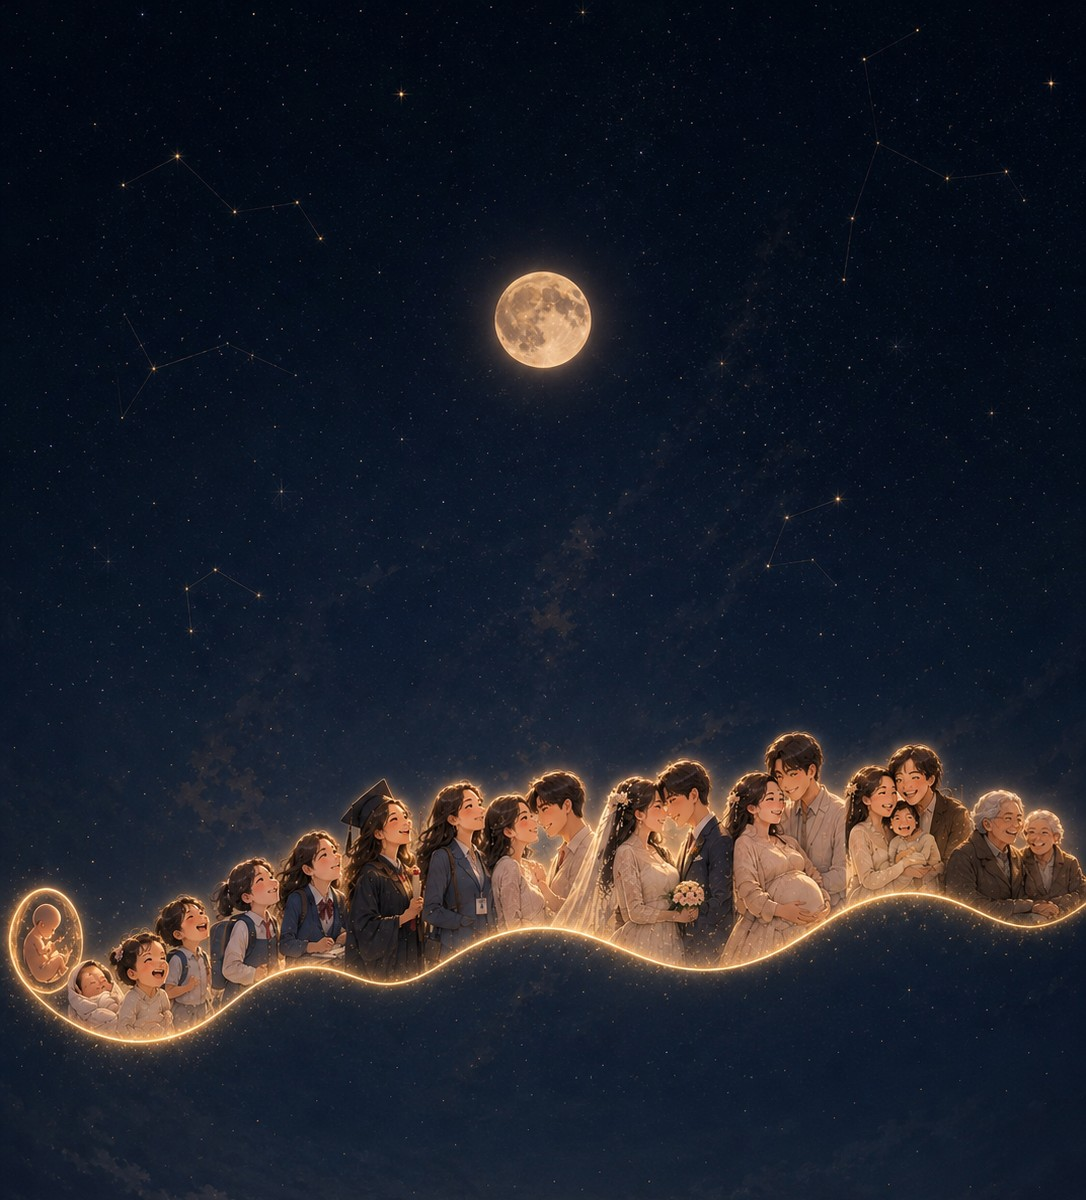
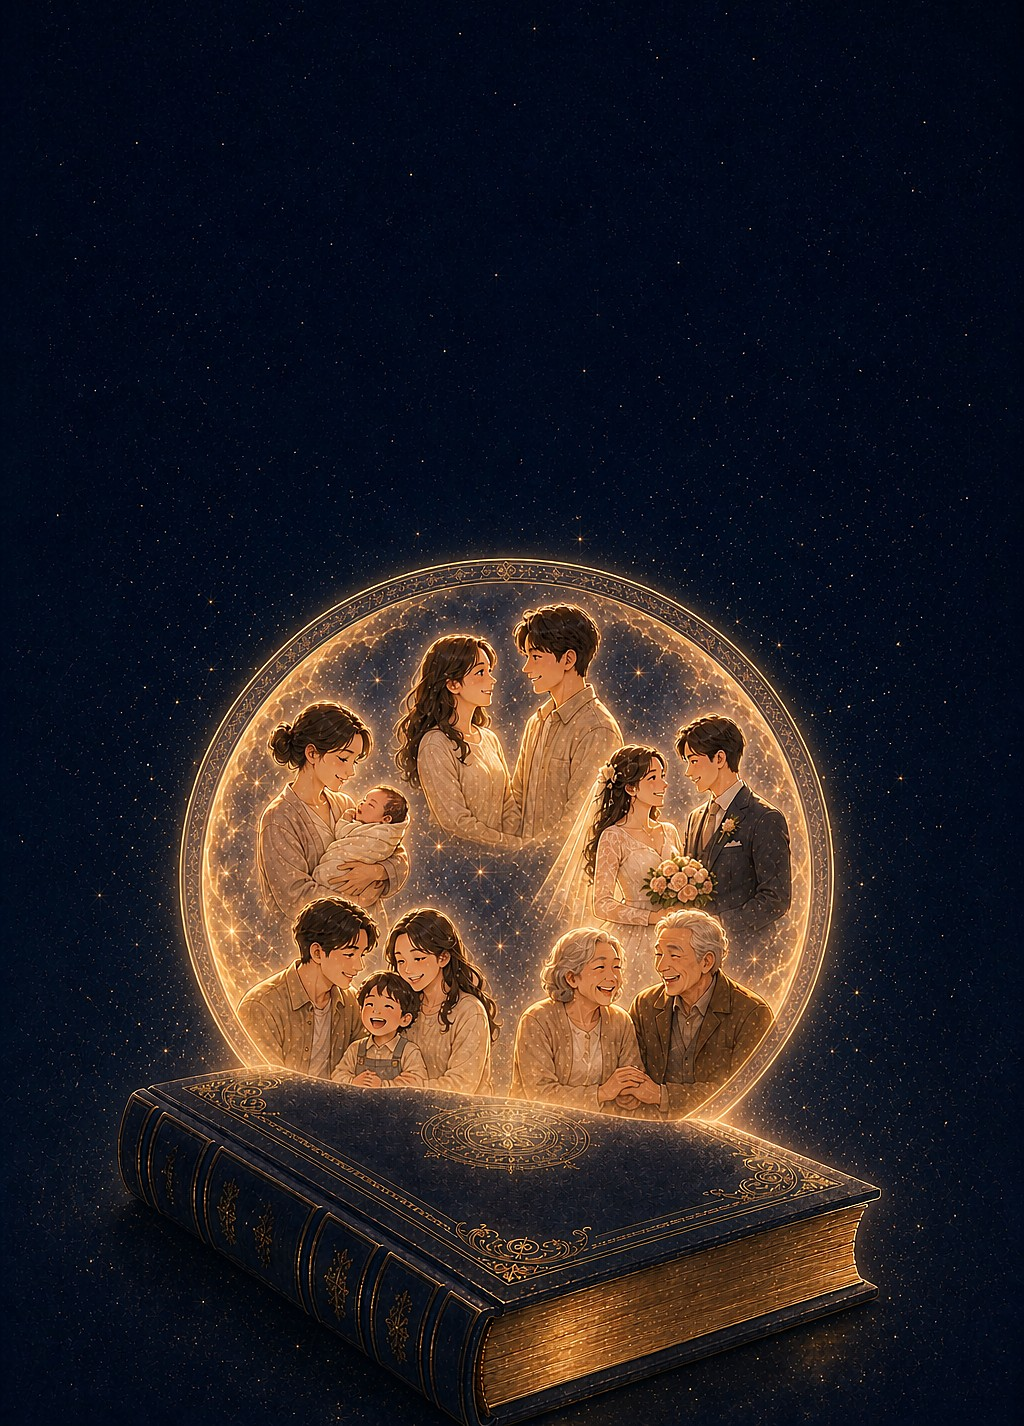
fix(v22): 세부 탭 알약 좌우 16px 여백·26px 높이·광학 중앙 정렬, 글자수/쪽수 마케팅 카피 전면 삭제, 하단 신뢰 알약 3개 제거, 푸터 고지문 2줄 정리, 인생사주 표지 아트(남색 금장 책+금빛 원형 인물 프레임) 교체, 3카드 문구 한 줄 정렬

diff --git a/index.html b/index.html
@@ -215,20 +215,20 @@
 
       <!-- 01 첫 화면 : 표지 + 제목 + 바로 신청 -->
       <div class="lr-hero">
-        <img class="lr-art" src="./assets/life-report-hero.jpg" alt="천령당 인생사주 리포트 — 아기에서 노년까지 한 사람의 평생을 걷는 사람들" width="1086" height="1200">
+        <img class="lr-art" src="./assets/life-report-hero.jpg" alt="천령당 인생사주 리포트 — 남색 금장 책과 금빛 원 안에 담긴 아기·청년 부부·가족·노부부" width="1024" height="1426">
         <div class="lr-veil" aria-hidden="true"></div>
         <div class="lr-hero-in">
           <div class="lr-hero-top">
             <div class="lr-eyebrow">天靈堂 · PREMIUM LIFE REPORT</div>
             <h2>인생사주<br><em>리포트</em></h2>
-            <p class="lr-tag">타고난 기질부터 인생의 전환점, 재물·직업·사랑·가족·노후까지</p>
+            <p class="lr-tag">타고난 기질부터 인생의 전환점,<br>재물·직업·사랑·가족·노후까지</p>
           </div>
           <div class="lr-hero-bot">
           </div>
         </div>
       </div>
       <div class="lr-buy">
-        <div class="lr-price"><b>69,900원</b><span>1부 · 책자형 PDF 104쪽</span></div>
+        <div class="lr-price"><b>69,900원</b><span>1부 · 프리미엄 소장본 PDF</span></div>
         <button type="button" class="btn btn-gold btn-block" data-life-cta>인생사주 리포트 신청하기</button>
         <p class="lr-micro">원국 검수 후 영업일 2~3일 · 결제는 검수 완료 후 안내</p>
       </div>
@@ -239,15 +239,15 @@
         <p class="lr-p">사주는 미래를 정해둔 예언이 아닙니다. 태어난 계절과 여덟 글자에는 그 사람이 <b>어떤 조건에서 힘을 내고, 어떤 상황에서 먼저 지치는지</b>가 적혀 있습니다.</p>
         <p class="lr-p">인생사주 리포트는 그 기록 위에 <b>평생의 큰 흐름</b>과 <b>앞으로 10년의 상세한 변화</b>를 얹어 한 사람의 인생 전체를 엮은 프리미엄 리포트입니다. 단순히 ‘올해의 운세’를 알려주는 것이 아니라, 타고난 기질에서 시작해 인생의 전환점, 재물과 직업, 사랑과 가족, 그리고 노후의 자리까지 한 줄로 이어 읽습니다.</p>
         <div class="lr-cards">
-          <div><b>타고난 기질</b><span>일주와 오행으로 읽는 본바탕</span></div>
-          <div><b>인생의 전환점</b><span>판이 바뀌는 10년과 그 해</span></div>
-          <div><b>평생의 큰 흐름</b><span>청년·중년·노후를 한눈에</span></div>
+          <div><b>타고난 기질</b><span>일주와 오행의 본바탕</span></div>
+          <div><b>인생의 전환점</b><span>판이 바뀌는 전환점</span></div>
+          <div><b>평생의 큰 흐름</b><span>청년·중년·노후의 흐름</span></div>
         </div>
       </section>
 
       <!-- 03 리포트 구성 -->
       <section class="lr-sec">
-        <div class="lr-head"><span class="no">02</span><div><h3>리포트 구성</h3><p>여덟 개의 장, 104쪽</p></div></div>
+        <div class="lr-head"><span class="no">02</span><div><h3>리포트 구성</h3><p>여덟 개의 장으로 엮은 한 권</p></div></div>
         <div class="lr-toc">
           <div><b>01</b><div><strong>타고난 사주</strong><span>원국표·오행·십성·십이운성·신살</span></div></div>
           <div><b>02</b><div><strong>성격과 내면</strong><span>겉으로 보이는 나와 가까운 사람이 아는 나</span></div></div>
@@ -269,7 +269,7 @@
           <figure><img src="./assets/preview/life-daeun.jpg" alt="인생사주 리포트 평생 대운 페이지 미리보기" width="620" height="877" loading="lazy"><figcaption><b>평생 대운</b> 10년마다의 판</figcaption></figure>
           <figure><img src="./assets/preview/life-months.jpg" alt="인생사주 리포트 12개월 달력 페이지 미리보기" width="620" height="877" loading="lazy"><figcaption><b>12개월</b> 달마다의 흐름</figcaption></figure>
         </div>
-        <p class="lr-note">샘플 원국(김서연)으로 만든 실제 페이지입니다. 신청하시면 같은 구성으로 104쪽이 만들어집니다.</p>
+        <p class="lr-note">샘플 원국(김서연)으로 만든 실제 페이지입니다.<br>신청하시면 같은 구성의 프리미엄 리포트로 제작됩니다.</p>
       </section>
 
       <!-- 05 구매 안내 + 신청 -->
@@ -277,13 +277,13 @@
         <div class="lr-head"><span class="no">04</span><div><h3>구매 안내</h3><p>가격 · 제공 방식 · 제작 시간</p></div></div>
         <table class="tbl lr-tbl">
           <tr><th>가격</th><td><b>69,900원</b> · 1부</td></tr>
-          <tr><th>제공 방식</th><td>책자형 PDF <b>104쪽</b> · 신청 시 입력한 이메일로 발송</td></tr>
+          <tr><th>제공 방식</th><td>책자형 PDF 소장본 · 신청 시 입력한 이메일로 발송</td></tr>
           <tr><th>제작 시간</th><td>원국 검수 후 <b>영업일 2~3일</b></td></tr>
           <tr><th>결제</th><td>검수 완료 후 안내드립니다. 검수 전에는 결제가 이루어지지 않습니다.</td></tr>
           <tr><th>개인정보</th><td>이름·생년월일·출생지는 리포트 제작과 발송에만 사용합니다. 신청 내역은 이 기기에만 저장되고 외부로 전송되지 않습니다.</td></tr>
           <tr><th>환불 기준</th><td>제작 착수 전에는 전액 환불, 착수 후에는 진행 단계에 따라 부분 환불됩니다. 완성본을 받으신 뒤에는 디지털 콘텐츠 특성상 환불이 어렵습니다.</td></tr>
         </table>
-        <p class="lr-note">사주명리 상징을 생활의 언어로 옮긴 참고 해석입니다. 의학적 진단·법률·투자 판단을 대신하지 않습니다.</p>
+        <p class="lr-note">사주명리 상징을 생활의 언어로 옮긴 참고 해석입니다.<br>의학적 진단·법률·투자 판단을 대신하지 않습니다.</p>
 
         <div class="panel lr-form" id="lifeFormPanel">
         <div class="steps" id="pdfSteps">
@@ -420,11 +420,6 @@
       <div class="brand-note">
         <span class="no">天靈堂</span>
         <p>여덟 글자에 새겨진 하늘의 뜻을,<br>한 사람의 언어로 옮깁니다.</p>
-        <div class="brand-tags">
-          <span>사주명리 기반 참고 해석</span>
-          <span>입력 정보는 이 기기에만</span>
-          <span>원국 검수 후 전달</span>
-        </div>
       </div>
     </div>
   </section>
@@ -433,7 +428,7 @@
 <footer class="ft">
   <div class="wrap">
     <div class="fb"><span class="seal">天</span><b>천령당 天靈堂</b></div>
-    <div>사주명리 기반의 참고 해석입니다. 의학적 진단·법률·투자 판단을 대신하지 않습니다.</div>
+    <div class="ft-disc">사주명리 기반의 참고 해석입니다.<br>의학적 진단·법률·투자 판단을 대신하지 않습니다.</div>
     <div>문의 <a href="mailto:with-hj@users.noreply.github.com">with-hj@users.noreply.github.com</a></div>
     <button type="button" class="adm-link" data-admin-open>관리자 검수함</button>
     <div style="margin-top:10px;font-size:11px;color:#6a7383">© 2026 천령당 · All rights reserved.</div>

diff --git a/styles.css b/styles.css
@@ -274,17 +274,18 @@ select:focus,input:focus,textarea:focus{outline:none;border-color:var(--gold);bo
 .v8-bcopy p{margin:4px 0 0;font-family:var(--serif);font-size:13px;line-height:1.6;color:#D6C9AF;
   text-shadow:0 1px 6px rgba(0,0,0,.7)}
 
-/* 세부 탭 : 금빛 알약 — 가운데 정렬 · 작고 단정하게 · 글자와 점 모두 정중앙 */
-.v8-tabs,.subtabs{display:flex;flex-wrap:wrap;justify-content:center;align-items:center;gap:6px;padding:11px 13px 0;overflow:visible}
+/* 세부 탭 : 금빛 알약 — 카드 좌우 여백 확보 · 가운데 정렬 · 글자와 점 모두 광학적 정중앙 */
+.v8-tabs,.subtabs{display:flex;flex-wrap:wrap;justify-content:center;align-items:center;gap:7px 6px;padding:12px 16px 0;overflow:visible}
 .subtab{
-  display:inline-flex;align-items:center;justify-content:center;gap:5px;
-  flex:0 0 auto;border:1px solid rgba(201,164,90,.28);border-radius:999px;padding:5px 11px;
+  display:inline-flex;align-items:center;justify-content:center;gap:4px;
+  flex:0 0 auto;border:1px solid rgba(201,164,90,.28);border-radius:999px;height:26px;padding:0 12px;
   font-family:var(--serif);font-size:12px;line-height:1;color:#C3B79F;background:rgba(255,255,255,.03);
   white-space:nowrap;transition:.2s;text-align:center;
 }
+.subtab .tx{display:block;line-height:1;transform:translateY(-.5px)}
 .subtab.on{background:linear-gradient(135deg,#EBD39A,#C9A45A);border-color:transparent;color:#20180A;font-weight:700;
   box-shadow:0 4px 14px rgba(0,0,0,.35)}
-.subtab .dot{display:block;flex:0 0 auto;width:4px;height:4px;border-radius:50%;background:#7a5410;margin:0}
+.subtab .dot{display:block;flex:0 0 auto;width:4px;height:4px;border-radius:50%;background:#7a5410;margin:0;transform:translateY(-.5px)}
 .v8-tnote{padding:10px 15px 14px;font-size:12.5px;line-height:1.7;color:#9FB0C2;margin:0}
 .v8-tnote b{color:#DDCBAA}
 
@@ -427,6 +428,7 @@ select:focus,input:focus,textarea:focus{outline:none;border-color:var(--gold);bo
 .ft .fb{display:flex;align-items:center;gap:8px;margin-bottom:10px}
 .ft .fb .seal{width:26px;height:26px;border:1px solid var(--gold-d);border-radius:4px;display:flex;align-items:center;justify-content:center;font-family:var(--serif);font-size:15px;color:var(--gold)}
 .ft .fb b{font-family:var(--serif);font-size:15px;color:var(--gold-l);letter-spacing:.06em}
+.ft .ft-disc{font-size:12px;line-height:1.85;letter-spacing:-.01em}
 .ft a{color:#b9c0cc;text-decoration:underline;text-underline-offset:2px}
 .ft .adm-link{margin-top:14px;display:inline-block;font-size:12px;letter-spacing:.08em;color:#737d8e}
 
@@ -524,11 +526,13 @@ select:focus,input:focus,textarea:focus{outline:none;border-color:var(--gold);bo
    인생사주 리포트 — 5단계 랜딩 (표지 → 소개 → 구성 → 미리보기 → 구매)
    ===================================================================== */
 .lr-hero{position:relative;margin-top:14px;border-radius:20px;overflow:hidden;
-  aspect-ratio:1086/1200;min-height:380px;border:1px solid rgba(216,179,106,.26);
-  box-shadow:0 22px 44px rgba(0,0,0,.5);background:#0d1321}
-.lr-art{position:absolute;inset:0;width:100%;height:100%;object-fit:cover;display:block}
+  aspect-ratio:1024/1426;min-height:440px;border:1px solid rgba(216,179,106,.26);
+  box-shadow:0 22px 44px rgba(0,0,0,.5);background:#010a1c}
+.lr-art{position:absolute;inset:0;width:100%;height:100%;object-fit:cover;object-position:50% 100%;display:block}
 .lr-veil{position:absolute;inset:0;pointer-events:none;
-  background:linear-gradient(180deg,rgba(8,13,24,.97) 0%,rgba(8,13,24,.88) 17%,rgba(9,15,26,.55) 33%,rgba(10,17,32,.10) 48%,rgba(10,17,32,0) 68%,rgba(10,17,32,.26) 100%)}
+  background:
+    linear-gradient(90deg,#010a1c 0%,rgba(1,10,28,0) 11%,rgba(1,10,28,0) 89%,#010a1c 100%),
+    linear-gradient(180deg,rgba(8,13,24,.96) 0%,rgba(8,13,24,.86) 16%,rgba(9,15,26,.52) 30%,rgba(10,17,32,.08) 44%,rgba(10,17,32,0) 62%,rgba(10,17,32,.30) 100%)}
 .lr-hero-in{position:absolute;left:0;right:0;top:0;display:flex;flex-direction:column;justify-content:flex-start;padding:20px 18px 0}
 .lr-hero-top{text-align:center}
 .lr-eyebrow{font-family:var(--sans);font-size:9px;font-weight:600;letter-spacing:.26em;color:#C0A468}
@@ -550,10 +554,10 @@ select:focus,input:focus,textarea:focus{outline:none;border-color:var(--gold);bo
 .lr-head p{font-size:11.5px;color:#8C96A6;margin:4px 0 0;letter-spacing:.02em}
 .lr-p{font-size:14.5px;line-height:1.88;color:#C7D0DD;margin:0 0 10px;letter-spacing:-.01em}
 .lr-p b{color:#F0E4C8}
-.lr-cards{display:grid;grid-template-columns:repeat(3,1fr);gap:7px;margin:14px 0 2px}
-.lr-cards div{background:rgba(255,255,255,.045);border:1px solid rgba(216,179,106,.16);border-radius:12px;padding:12px 9px;text-align:center}
+.lr-cards{display:grid;grid-template-columns:repeat(3,1fr);gap:6px;margin:14px 0 2px}
+.lr-cards div{background:rgba(255,255,255,.045);border:1px solid rgba(216,179,106,.16);border-radius:12px;padding:12px 7px;text-align:center}
 .lr-cards b{display:block;font-family:var(--serif);font-size:12.5px;color:var(--gold-l);line-height:1.4}
-.lr-cards span{display:block;font-size:10px;color:#94A0B3;line-height:1.55;margin-top:4px;letter-spacing:-.01em}
+.lr-cards span{display:block;font-size:9.5px;color:#94A0B3;line-height:1.55;margin-top:5px;letter-spacing:-.02em;white-space:nowrap}
 
 .lr-toc{display:grid;gap:6px}
 .lr-toc>div{display:flex;gap:10px;align-items:center;background:rgba(255,255,255,.035);
@@ -579,12 +583,10 @@ select:focus,input:focus,textarea:focus{outline:none;border-color:var(--gold);bo
 .sec-brand .wrap{text-align:center}
 .brand-note .no{display:block;font-family:var(--serif);font-size:11px;letter-spacing:.3em;color:var(--verm);margin-bottom:10px}
 .brand-note p{font-family:var(--serif);font-size:14.5px;line-height:1.95;color:#C3B99F;margin:0}
-.brand-tags{display:flex;flex-wrap:wrap;justify-content:center;gap:6px;margin-top:14px}
-.brand-tags span{font-size:10.5px;color:#94A0B3;border:1px solid rgba(216,179,106,.22);border-radius:999px;padding:4px 10px}
 
 @media (min-width:640px){
   .lr-prev figure{flex:0 0 32%}
-  .lr-hero{aspect-ratio:1086/1200;min-height:520px}
+  .lr-hero{aspect-ratio:1024/1426;min-height:560px}
 }
 
 /* ---------- 테마 풀이 : 2장 무료 미리보기 + 흐림 결제 게이트 ---------- */

diff --git a/app.js b/app.js
@@ -237,7 +237,7 @@ function renderTabs(){
   var th=CT.THEMES[state.theme], box=$('#subtabs');
   box.innerHTML=th.tabs.map(function(k){
     var T=CT.TABS[k];
-    return '<button type="button" class="subtab'+(k===state.tab?' on':'')+'" role="tab" data-tab="'+k+'">'+(k===state.tab?'<span class="dot"></span>':'')+T.name+'</button>';
+    return '<button type="button" class="subtab'+(k===state.tab?' on':'')+'" role="tab" data-tab="'+k+'">'+(k===state.tab?'<span class="dot"></span>':'')+'<span class="tx">'+T.name+'</span></button>';
   }).join('');
   $$('.subtab',box).forEach(function(b){
     b.addEventListener('click',function(){
@@ -412,7 +412,7 @@ function renderResult(R,input){
   h+='<div class="panel" style="margin-top:18px;text-align:center">'+
      '<h3 style="font-size:17px">'+(lockH?'평생의 흐름까지 이어서 보시겠어요':'여기까지가 '+esc(T.name)+'의 결입니다')+'</h3>'+
      '<p class="ph" style="margin-bottom:6px">테마별 풀이는 <b>9,900원</b> · 인생사주 리포트는 <b>69,900원</b>입니다.</p>'+
-     '<p class="ph" style="margin-bottom:14px">같은 주제를 평생의 큰 흐름과 앞으로 10년·노후까지 이어서 풀면 <b>인생사주 리포트</b> 104쪽이 됩니다.</p>'+
+     '<p class="ph" style="margin-bottom:14px">같은 주제를 평생의 큰 흐름과 앞으로 10년·노후까지 풀어내면 <b>인생사주 리포트</b>로 이어서 보실 수 있습니다.</p>'+
      '<button type="button" class="btn btn-gold btn-block" data-goto-pdf>📜 인생사주 리포트 받아보기</button></div>';
   h=h.replace(/당신 님/g,'당신');
   $('#resultView').innerHTML=h;
@@ -423,10 +423,10 @@ function renderResult(R,input){
 /* ---------- 결제 게이트(테스트) : 2장까지 무료, 3장부터 흐림 ---------- */
 function pwBuyMarkup(info){
   return '<div class="pw-price">9,900원 · 전체 풀이</div>'+
-    '<h3>여기서부터 전체 풀이가<br>이어집니다</h3>'+
-    '<p>3장부터 '+info.total+'장까지 <b>약 '+Number(info.chars).toLocaleString('ko-KR')+'자</b>가 더 있습니다.<br>'+esc(info.tab)+'의 나머지 결을 이어서 읽어보세요.</p>'+
+    '<h3>여기서부터 전체 풀이가<br>펼쳐집니다</h3>'+
+    '<p>이어지는 전체 풀이에서<br>'+esc(info.tab)+'의 나머지 결을 더 깊이 읽어보세요.</p>'+
     '<button type="button" class="btn btn-gold btn-block" id="pwBuy">9,900원 결제하고 전체 풀이 보기</button>'+
-    '<p class="pw-note">테스트 사이트입니다 — 결제 없이 전체 풀이가 열립니다</p>';
+    '<p class="pw-note">테스트 사이트 — 결제 없이 전체 풀이가 열립니다</p>';
 }
 function pwConfirmMarkup(){
   return '<div class="pw-price">테스트 결제 · 9,900원</div>'+
